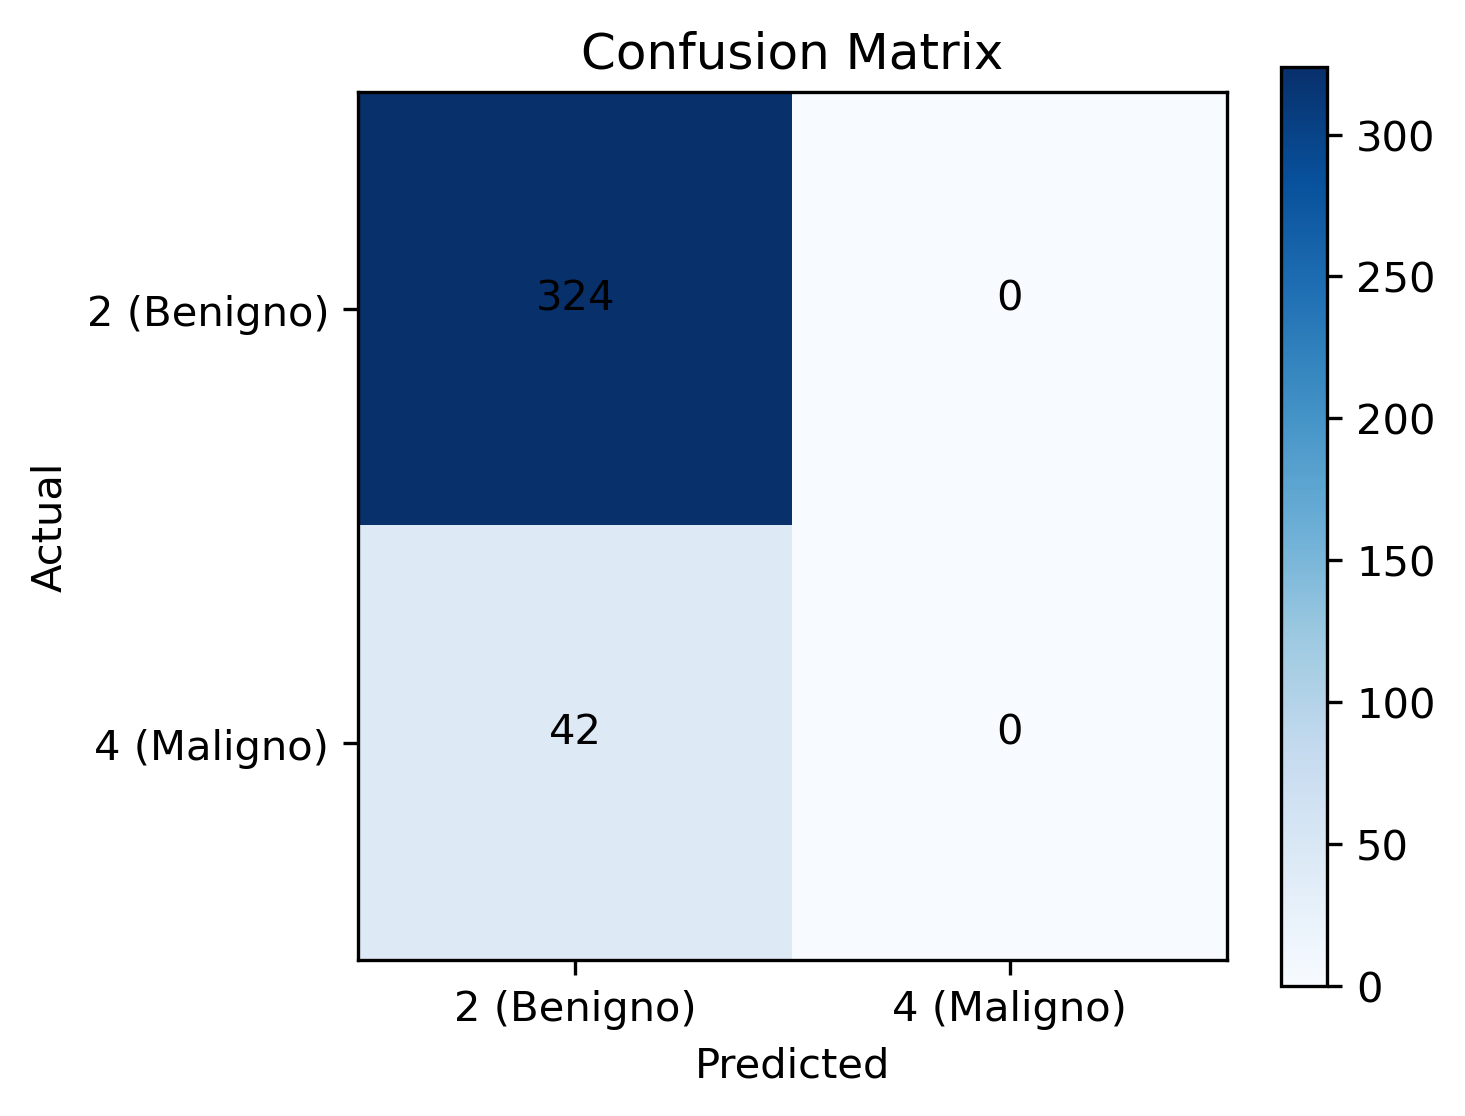
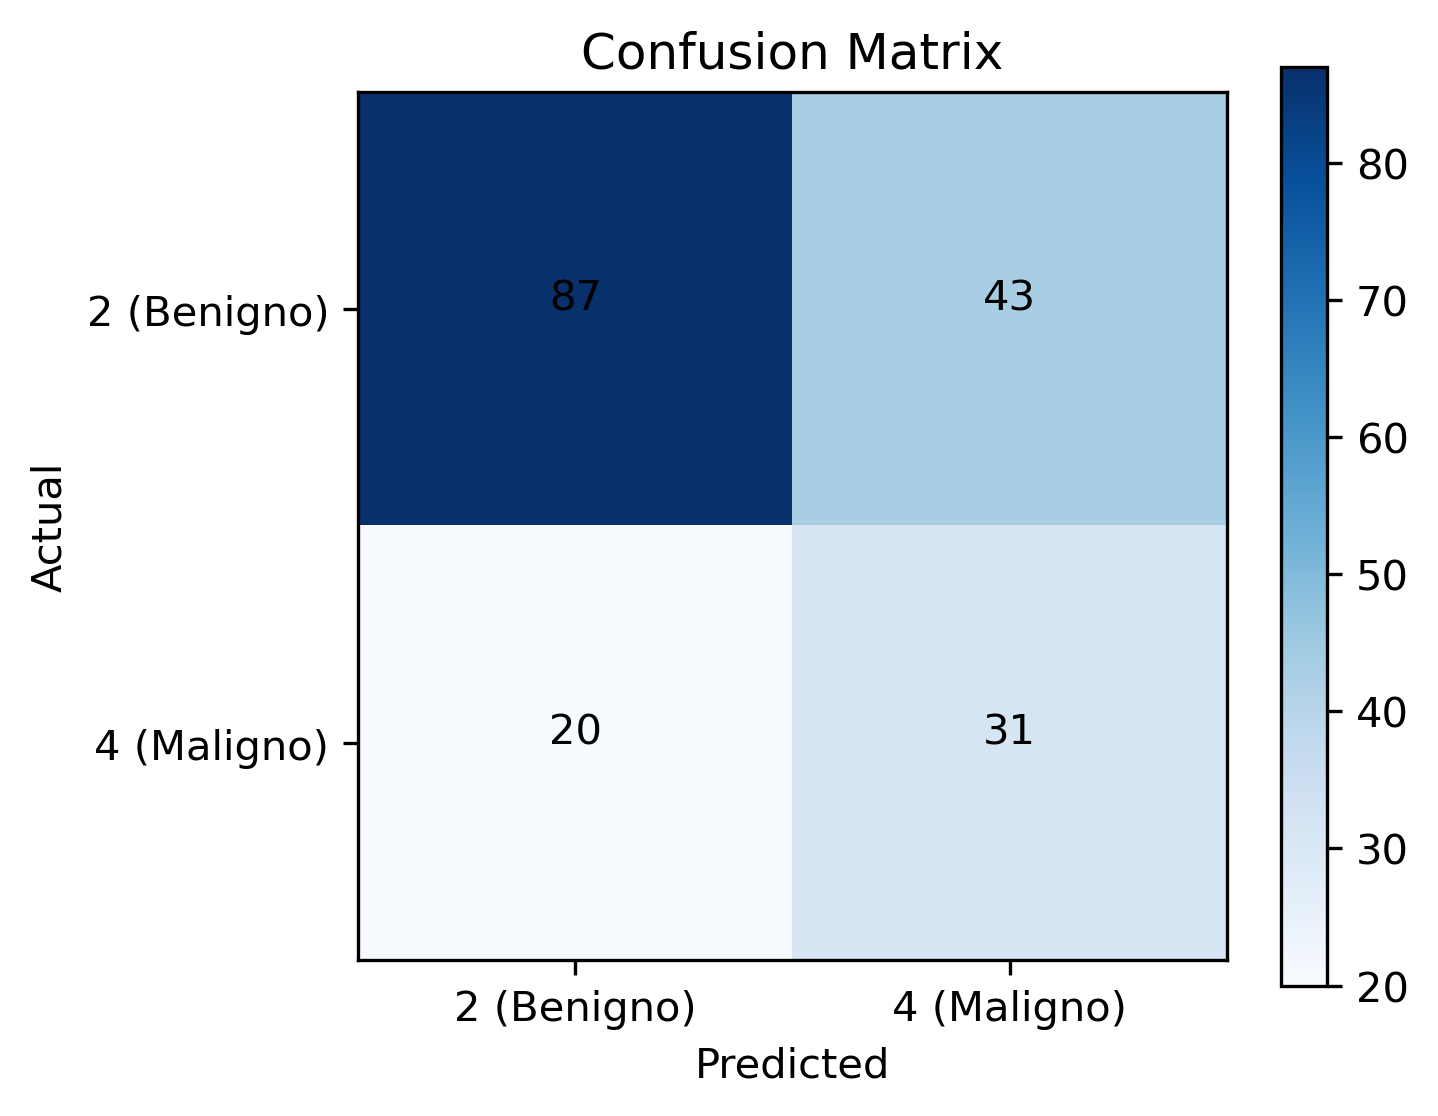
Fix: logica feature selection e outlier removal per salvaguardare classe minoritaria
Modificata la pipeline di preprocessing per risolvere il problema della perdita di casi Maligni (True Negatives = 0).

Dettagli modifiche:
- op5_feature_selection: Esclusa la colonna target ('classtype_v1') dal calcolo della correlazione. Previene la rimozione delle feature fortemente predittive che venivano erroneamente considerate ridondanti.
- op6_outlier_remover: Sostituita la rimozione globale con una rimozione stratificata per classe. I casi Maligni non vengono più eliminati come outlier rispetto alla maggioranza Benigna.
- Aggiunta salvaguardia in op6 per ignorare colonne con varianza nulla (IQR=0).

Fix:  modificato metrics.py la metrica confusion matrix per rendere i true positivie i benigni e i true negatives i maligni

diff --git a/data_preprocessing/op6_outlier_remover.py b/data_preprocessing/op6_outlier_remover.py
@@ -1,18 +1,17 @@
 from typing import NamedTuple
 import pandas as pd
 
-"""Removes outliers from the dataset using the Interquartile Range (IQR) method.
+"""Removes outliers using a Class-Specific IQR method with safeguards.
 
-    This function identifies numeric columns and calculates the first (Q1) and 
-    third (Q3) quartiles. It defines the acceptable range as [Q1 - 1.5 * IQR, 
-    Q3 + 1.5 * IQR]. Any row containing at least one value outside these bounds 
-    in any numeric column is removed.
+    Instead of applying a global filter, this function handles outliers separately 
+    for each class. This is crucial for medical datasets where 'disease' cases 
+    naturally have extreme values that are not errors but signals.
 
     Args:
         df (pd.DataFrame): The input DataFrame.
 
     Returns:
-        df_output (pd.DataFrame): The DataFrame with outliers removed.
+        df_output (pd.DataFrame): The DataFrame with outliers removed intelligently.
 """
 
 class OutlierOutputs(NamedTuple):
@@ -22,36 +21,64 @@ def run_remove_outlier(
         df: pd.DataFrame,
         ) -> OutlierOutputs :
     
-    # Calculate the Interquartile Range (IQR)
-    # The IQR is the distance between the 25th percentile (Q1) and the 75th percentile (Q3).
-    # It represents the range where the central 50% of the data points lie.
-    numeric_df = df.select_dtypes(include=['number'])
-    Q1 = numeric_df.quantile(0.25)
-    Q3 = numeric_df.quantile(0.75)
-    IQR = Q3 - Q1
+    target_col = 'classtype_v1'
+    original_rows = len(df)
     
-    # Define bounds for outlier detection
-    # Any value outside this range is statistically considered an anomaly (outlier) 
-    # because it deviates significantly from the central distribution of the dataset.
-    lower_bound = Q1 - 1.5 * IQR
-    upper_bound = Q3 + 1.5 * IQR
-    
-    # Identify rows that contain at least one outlier in numeric columns
-    outliers_mask = ((numeric_df < lower_bound) | (numeric_df > upper_bound)).any(axis=1)
-    
-    # Filter the DataFrame: the '~' operator keeps rows where the mask is False
-    df_cleaned = df[~outliers_mask]
-    
-    rows_removed = len(df) - len(df_cleaned)
+    # Container for the processed data
+    cleaned_data_chunks = []
 
-    # Check if any outliers were found and removed
-    if rows_removed > 0:
-        print(f"Outlier handling complete. Rows removed: {rows_removed}")
-    else:
-        print("No outliers detected based on the 1.5 * IQR rule. The dataset remains unchanged.")
+    print(f"Starting Stratified Outlier Removal (Total rows: {original_rows})...")
 
+    # Iterate through each class (e.g., 2.0 and 4.0) independently
+    # This ensures Malignant cases are compared only to other Malignant cases
+    classes = df[target_col].unique()
+    
+    for class_value in classes:
+        # Select subset of data belonging to the current class
+        df_class = df[df[target_col] == class_value].copy()
+        
+        # Select numeric columns for outlier detection, excluding the target itself
+        numeric_cols = df_class.select_dtypes(include=['number']).columns
+        numeric_cols = [col for col in numeric_cols if col != target_col]
+        
+        # Initialize a mask of False (keep all rows by default)
+        outliers_mask = pd.Series(False, index=df_class.index)
+        
+        for col in numeric_cols:
+            Q1 = df_class[col].quantile(0.25)
+            Q3 = df_class[col].quantile(0.75)
+            IQR = Q3 - Q1
+            
+            # SAFEGUARD: If IQR is 0 (all values are identical, e.g., all 1.0),
+            # any variation would be flagged as outlier. We SKIP outlier removal 
+            # for this column in this class to preserve data.
+            if IQR == 0:
+                continue
+            
+            # Define bounds (standard 1.5 multiplier)
+            lower_bound = Q1 - 1.5 * IQR
+            upper_bound = Q3 + 1.5 * IQR
+            
+            # Identify outliers in this specific column
+            col_outliers = (df_class[col] < lower_bound) | (df_class[col] > upper_bound)
+            
+            # Update the global mask for this class
+            outliers_mask = outliers_mask | col_outliers
+
+        # Keep only rows that are NOT outliers
+        df_class_cleaned = df_class[~outliers_mask]
+        cleaned_data_chunks.append(df_class_cleaned)
+        
+        removed_in_class = len(df_class) - len(df_class_cleaned)
+        print(f" - Class {class_value}: removed {removed_in_class} outliers out of {len(df_class)} rows.")
+
+    # Reassemble the dataset
+    df_final = pd.concat(cleaned_data_chunks).sort_index()
+    
+    total_removed = original_rows - len(df_final)
+    print(f"Outlier handling complete. Total rows removed: {total_removed}")
     print("\n" + "="*50 + "\n")
 
     return OutlierOutputs(
-        df_output = df_cleaned
+        df_output = df_final
     )

diff --git a/data_preprocessing/op5_feature_selection.py b/data_preprocessing/op5_feature_selection.py
@@ -7,16 +7,16 @@ import matplotlib.pyplot as plt
 
 """Identifies and removes redundant features based on Pearson correlation.
 
-    This function calculates a correlation matrix and visualizes it using a 
-    heatmap. It then identifies pairs of features with a correlation coefficient 
-    higher than 0.8 and drops one column from each pair to reduce 
-    multicollinearity and improve model performance.
+    This function calculates a correlation matrix ONLY on input features and visualizes it.
+    It identifies pairs of features with a correlation coefficient higher than 0.8 
+    and drops one column from each pair. The target variable is excluded from this 
+    process to prevent removing good predictors.
 
     Args:
         df (pd.DataFrame): The input DataFrame.
 
     Returns:
-        df_output (pd.DataFrame): The DataFrame after removing redundant (highly correlated) features.
+        df_output (pd.DataFrame): The DataFrame after removing redundant features.
 """
 
 class FeatureSelectionOutputs(NamedTuple):
@@ -26,15 +26,17 @@ def run_feature_selection(
         df: pd.DataFrame,
         ) -> FeatureSelectionOutputs :
     
-    # Calculate the correlation matrix to identify linear relationships between features
-    # values close to 1 or -1 indicate a strong relationship, while 0 indicates no relationship
-    correlation_matrix = df.corr()
+    target_column = 'classtype_v1'
+    
+    # Crea un DataFrame temporaneo con le sole feature (escludendo il target)
+    # Vogliamo evitare di calcolare la correlazione tra feature e target qui,
+    # perché una forte correlazione col target è positiva e non va eliminata.
+    df_features = df.drop(columns=[target_column], errors='ignore')
+    
+    # Calcola la matrice di correlazione sulle sole feature di input
+    correlation_matrix = df_features.corr()
 
-    # Generate a Heatmap to visually represent the correlation matrix
-    # We use a heatmap because it allows for immediate identification of patterns 
-    # and highly correlated features through color-coding
-    # Warmer colors (red) indicate strong positive correlation, while 
-    # cooler colors (blue) indicate strong negative correlation
+    # Generate a Heatmap
     print("Correlation Matrix Heatmap:")
     plt.figure(figsize=(12, 10))
     sns.heatmap(
@@ -46,37 +48,33 @@ def run_feature_selection(
     )
     plt.title("Feature Correlation Heatmap")
 
-    # Save the heatmap plot as a PNG image in the 'data' directory
+    # Save the heatmap plot
+    if not os.path.exists('data/plot'):
+        os.makedirs('data/plot')
     save_path = os.path.join('data/plot', 'correlation_heatmap.png')
     plt.savefig(save_path, bbox_inches='tight', dpi=300)
-    # Close the plot to free up memory
     plt.close()
 
-    # Consider absolute values to detect both strong positive and negative correlations
-    # (both contribute to redundancy/multicollinearity)
+    # Consider absolute values
     correlation_matrix_abs = correlation_matrix.abs()
 
     # Select the upper triangle of the correlation matrix
-    # k=1 ignores the main diagonal (correlations of 1.0 with themselves)
-    # np.triu ensures we only check M[i][j] and ignore the symmetric M[j][i]
     upper_triangle = correlation_matrix_abs.where(
         np.triu(np.ones(correlation_matrix_abs.shape), k=1).astype(bool)
     )
 
-    target_column = ['classtype_v1']
-
     # Identify columns to drop: creates a list of columns with correlation > 0.8
-    # but NEVER drop the target column
+    # Il target non è presente in 'upper_triangle', quindi non rischiamo di rimuoverlo
     columns_to_drop_corr = [
         column for column in upper_triangle.columns 
-        if any(upper_triangle[column] > 0.8) and column not in target_column
+        if any(upper_triangle[column] > 0.8)
     ]
 
     if not columns_to_drop_corr:
         print("No redundant features found (all correlations <= 0.8).")
     else:
         print("The following redundant columns were removed: ", columns_to_drop_corr)
-        # Drop the highly correlated columns from the DataFrame
+        # Drop the highly correlated columns from the ORIGINAL DataFrame
         df = df.drop(columns=columns_to_drop_corr)
 
     print("\n" + "="*50 + "\n")

diff --git a/model_evaluation/metrics.py b/model_evaluation/metrics.py
@@ -17,14 +17,17 @@ Computes a binary confusion matrix.
 """
 
 
-def confusion_matrix_binary(y_test, y_pred, pos_label=4, neg_label=2, normalize=True):
+def confusion_matrix_binary(y_test, y_pred, pos_label=2, neg_label=4, normalize=True):
+    y_test = np.array(y_test)  # Rimuove gli indici originali e converte in array puro
+    y_pred = np.array(y_pred)  # Assicura che anche questo sia un array
+    
     TP = np.sum((y_test == pos_label) & (y_pred == pos_label))
     TN = np.sum((y_test == neg_label) & (y_pred == neg_label))
     FP = np.sum((y_test == neg_label) & (y_pred == pos_label))
     FN = np.sum((y_test == pos_label) & (y_pred == neg_label))
 
-    cm = np.array([[TN, FP],
-                   [FN, TP]])
+    cm = np.array([[TP, FP],
+                   [FN, TN]])
     return cm
 
 
